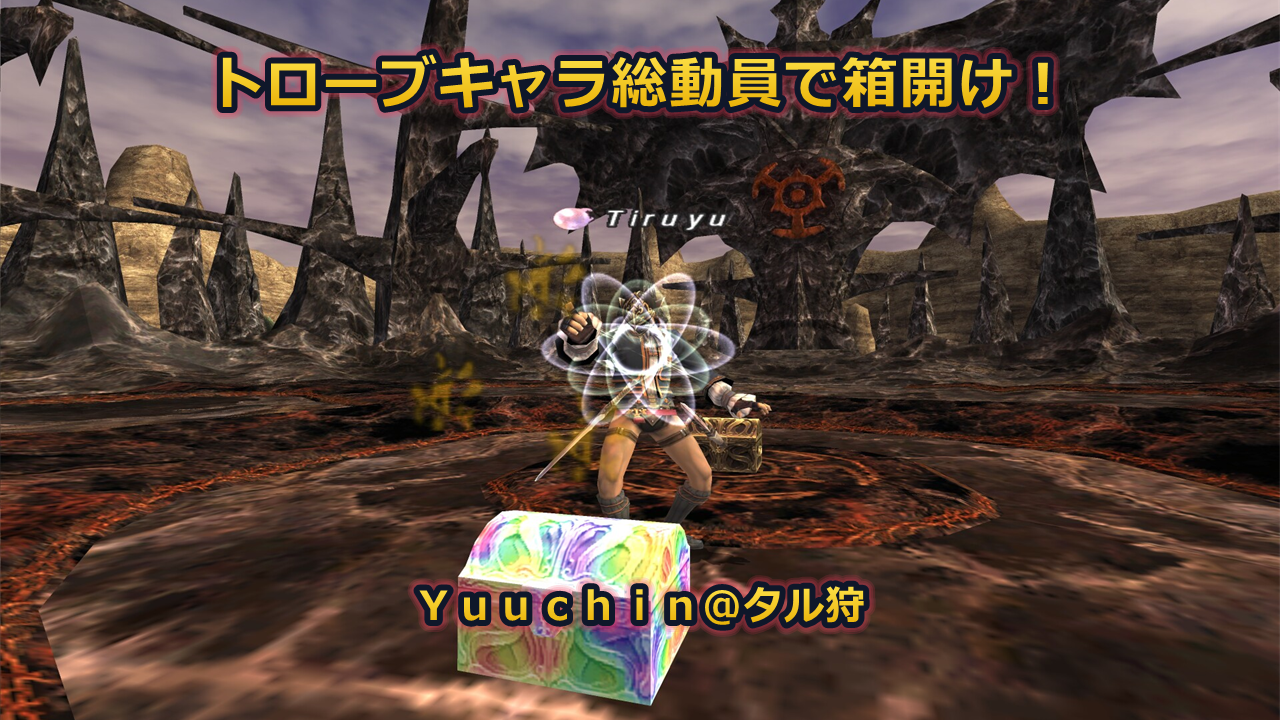
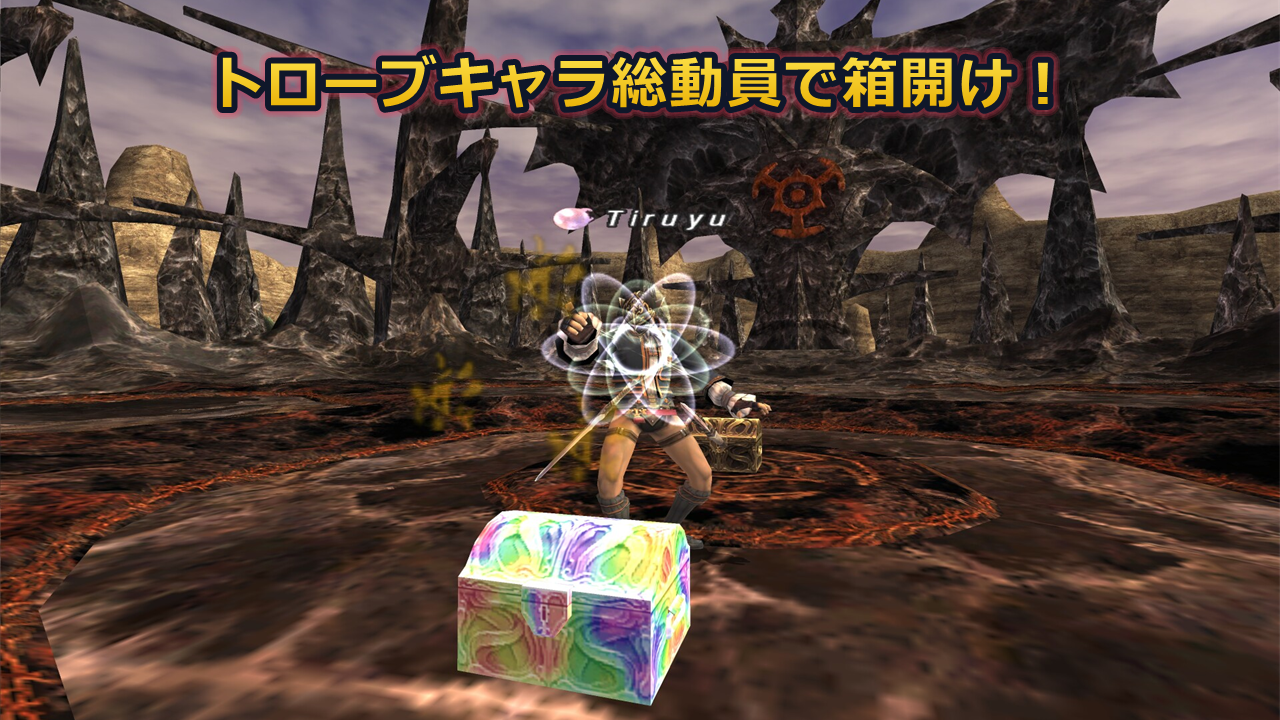
Create normal and named versions for Trove thumbnail

Changed region(s): [[0.3125, 0.7944, 0.6875, 0.8861]]

diff --git a/STATUS_REPORT.md b/STATUS_REPORT.md
@@ -1,11 +1,11 @@
 # プロジェクト履歴と現在のステータス (Project Status & Tasks)
 
 ## 最新更新日時
-2026-06-12 (最新の更新: 「トローブ」画像からタイトル「トローブキャラ総動員で箱開け！」および下部サブタイトル「Ｙｕｕｃｈｉｎ＠タル狩」入りのサムネイル画像を背景そのまま版で新規作成いたしました🐾)
+2026-06-12 (最新の更新: 「トローブ」画像からタイトルのみの通常版と、下部に「Ｙｕｕｃｈｉｎ＠タル狩」を追加した名前入り版の２パターンのサムネイル画像を背景そのまま版で新規作成いたしました🐾)
 
 ## 現在のステータスと直近の作業
-1.  【トローブサムネイルの新規作成】 [完了]
-    * ご主人様からご指定いただいた「一時作業/トローブ.jpg」をベースに、上部に「トローブキャラ総動員で箱開け！」、下部に「Ｙｕｕｃｈｉｎ＠タル狩」のタイトル・サブタイトル入りサムネイル画像（1280x720）を背景そのまま版で新規作成いたしました🐾
+1.  【トローブサムネイルの新規作成（２パターン）】 [完了]
+    * ご主人様からご指定いただいた「一時作業/トローブ.jpg」をベースに、タイトルのみを配置した通常版「一時作業/トローブ_サムネ.png」と、下部に「Ｙｕｕｃｈｉｎ＠タル狩」のサブタイトルを追加した名前入り版「一時作業/トローブ_名入り_サムネ.png」の２パターンを背景そのまま版で新規作成いたしました🐾
     * タイトル文字のフチ取りやネオン光彩、ゴールドグラデーションを施したプレミアムな仕上がりでございます🐾
 2.  【神威サムネイルの新規作成（２パターン）】 [完了]
     * ご主人様からご指定いただいた「一時作業/神威.jpg」をベースに、「アポリオンＡＡ　神威新ＢＧＭ」および「テメナスＡＡ　神威新ＢＧＭ」のタイトル入りサムネイル画像（1280x720）を背景そのまま版でそれぞれ新規作成いたしました🐾
